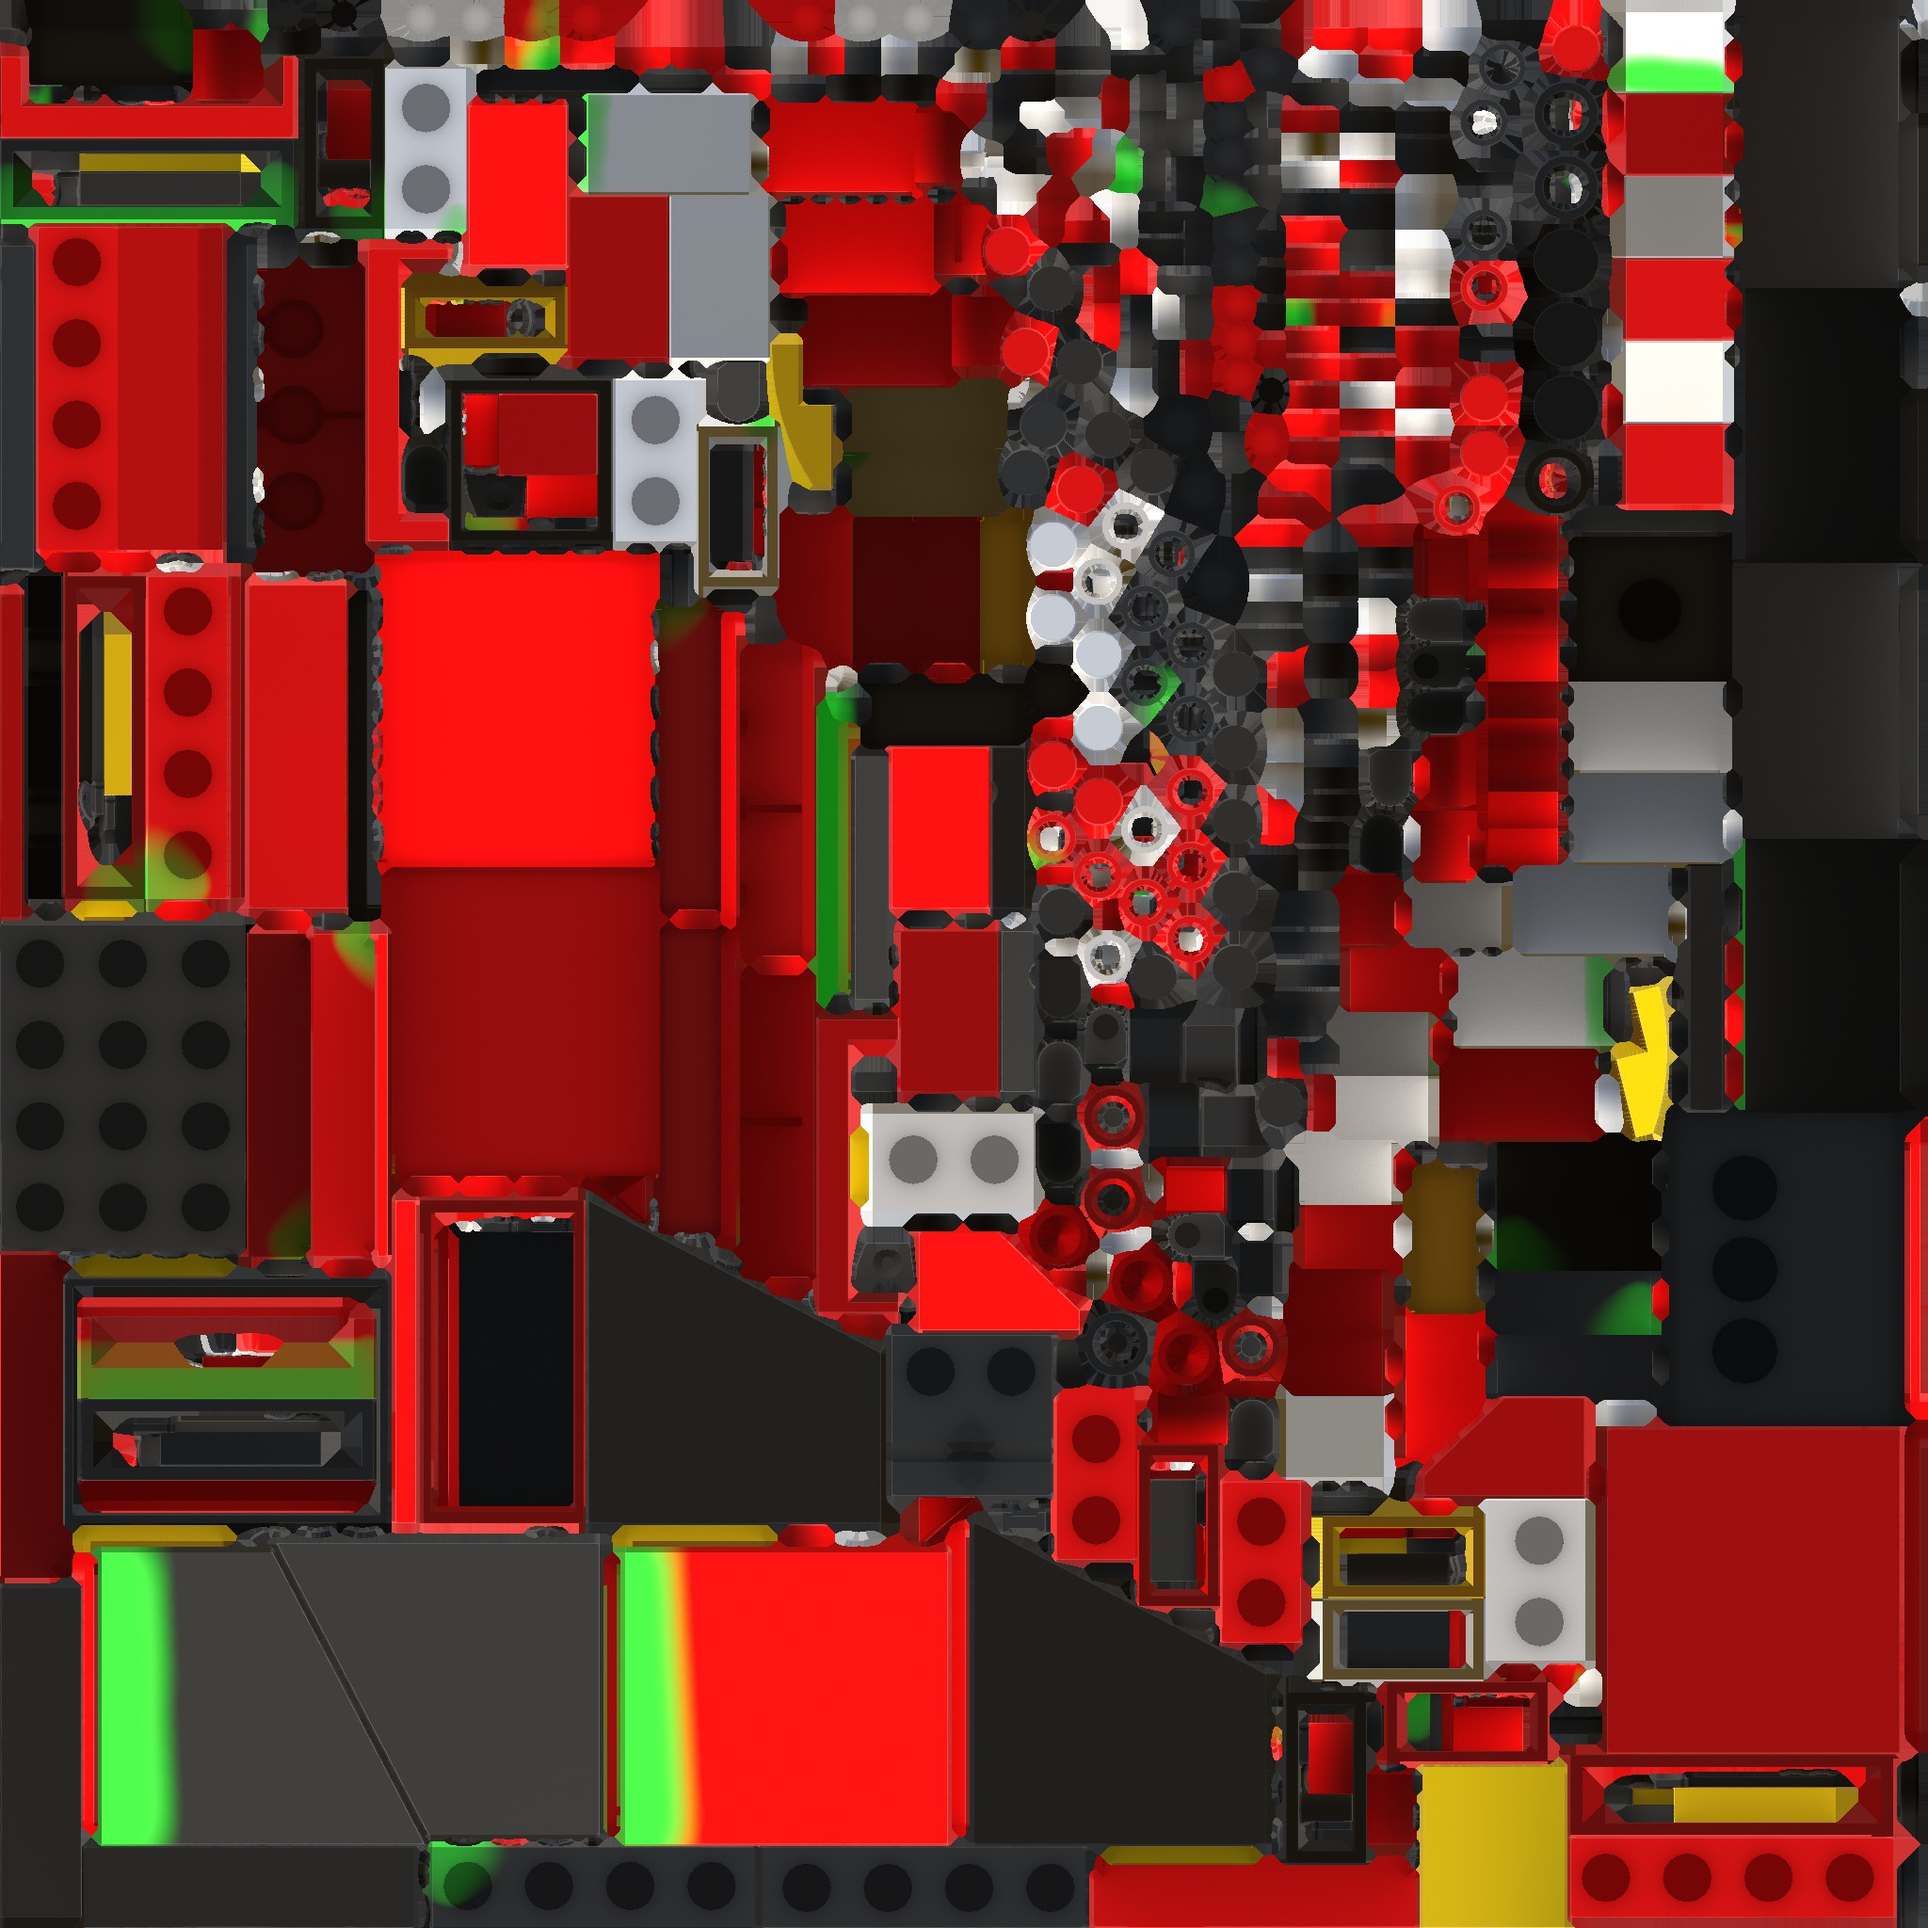
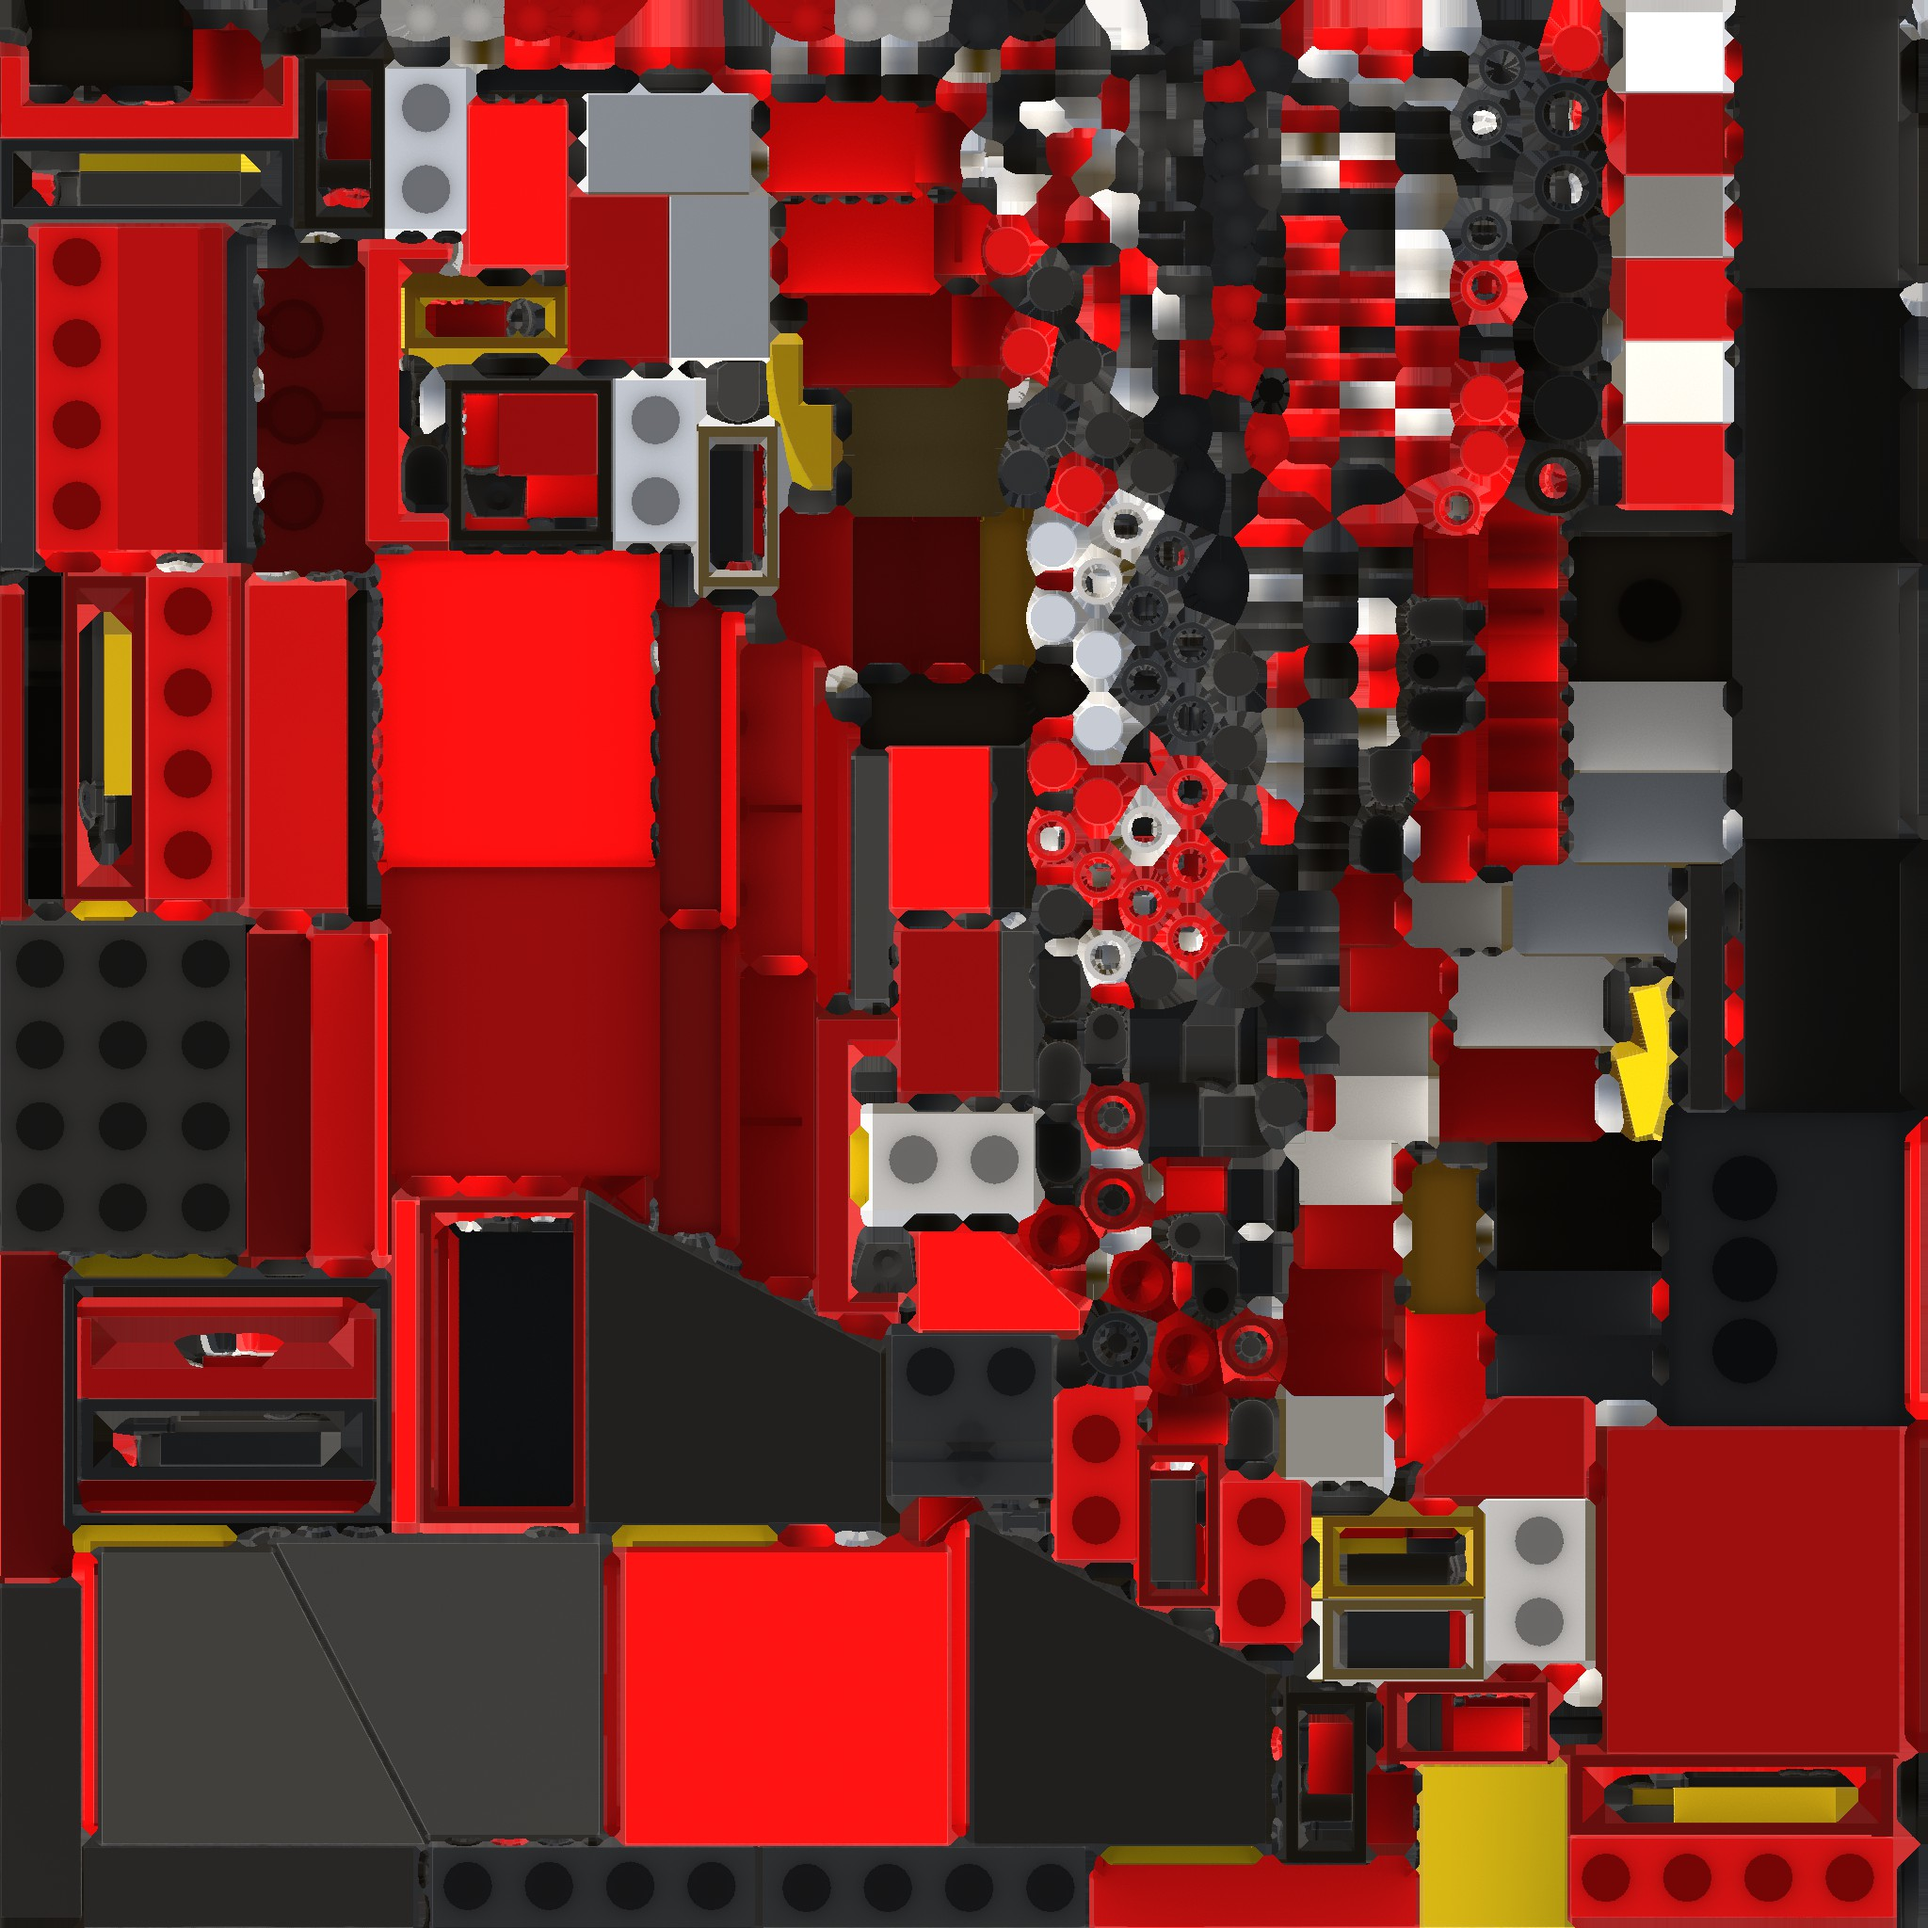
convert to standart material

diff --git a/app/instructions/page.tsx b/app/instructions/page.tsx
@@ -33,6 +33,8 @@ import { LevelAll } from "../components/levels/LevelsAll";
 import {useLevelStore} from "../components/store/Store";
 import { useClickStore } from "../components/store/Store";
 import { useDirectionFlowStore } from "../components/store/Store";
+import { Bloom, DepthOfField, EffectComposer, Noise, Vignette, ToneMapping } from '@react-three/postprocessing'
+import { BlendFunction } from "postprocessing";
  
 
 //--------------------------------------------------------
@@ -154,7 +156,7 @@ const {isLeftButton, canClick ,setLeftClick, setRightClick, setCanClick} = click
 
   return (
         // <h1>Instrucions</h1>
-        <div className="h-screen bg-gray-500">
+        <div className="h-screen bg-slate-500">
           {/* <h1 className="mt-28">{isLeftButton.toString()}</h1> */}
           {currentLevel < 1 && <button 
               className={ "absolute left-1/2 -translate-x-1/2 top-1/3 text-6xl z-10" }
@@ -172,7 +174,7 @@ const {isLeftButton, canClick ,setLeftClick, setRightClick, setCanClick} = click
         <Canvas className="h-screen relative" shadows >
             
             /
-            {/* <Perf className='top-left'/> */}
+            <Perf className='top-left'/>
             <Suspense fallback={null}>
               
                 {/* <LevelAll isLeftArrowClicked={isLeftArrowClicked_} shouldAnimate={true}/> */}
@@ -183,7 +185,19 @@ const {isLeftButton, canClick ,setLeftClick, setRightClick, setCanClick} = click
 
             <OrbitControls />
             <PerspectiveCamera makeDefault position={[0.5, 28, -31]}/>
-             {/* <Environment files={'brown_photostudio_02_1k-1.hdr'} background={false} /> */}
+             <Environment files={'brown_photostudio_02_1k-1.hdr'} background={false} />
+      {/* <EffectComposer >
+
+        <ToneMapping 
+           blendFunction={BlendFunction.COLOR_DODGE} // blend mode
+           adaptive={true} // toggle adaptive luminance map usage
+           resolution={256} // texture resolution of the luminance map
+           middleGrey={0.6} // middle grey factor
+           maxLuminance={16.0} // maximum luminance
+           averageLuminance={1.0} // average luminance
+           adaptationRate={1.0} // luminance adaptation rate
+        />
+      </EffectComposer> */}
         </Canvas>
         </div>
   )

diff --git a/app/components/models3D/Models3D.tsx b/app/components/models3D/Models3D.tsx
@@ -121,10 +121,20 @@ useEffect(() => {
        }     
 }, [])
 
-const newMaterial = new THREE.MeshBasicMaterial({
+// const newMaterial = new THREE.MeshBasicMaterial({
+//   toneMapped: false,
+//   color: model.color || 'white',
+//   map: diffuseMap,
+//   //metalness: 0
+// })
+
+const newMaterial = new THREE.MeshStandardMaterial({
+  //toneMapped: false,
   color: model.color || 'white',
   map: diffuseMap,
-  //metalness: 0
+  metalness: 0,
+  roughness: 0.3,
+  emissiveMap: diffuseMap
 })
 
 

diff --git a/app/components/levels/LevelsAll.tsx b/app/components/levels/LevelsAll.tsx
@@ -26,7 +26,7 @@ import { level16 } from '../levelsData/level16';
 const levels = [
   level1, level2, level3, level4, level5, level6,
   level7, level8, level9, level10, level11, level12,
-  level13, level14, level15, 
+  level13, level14, level15, level16,
 ];
 
 export const LevelAll = () => {
